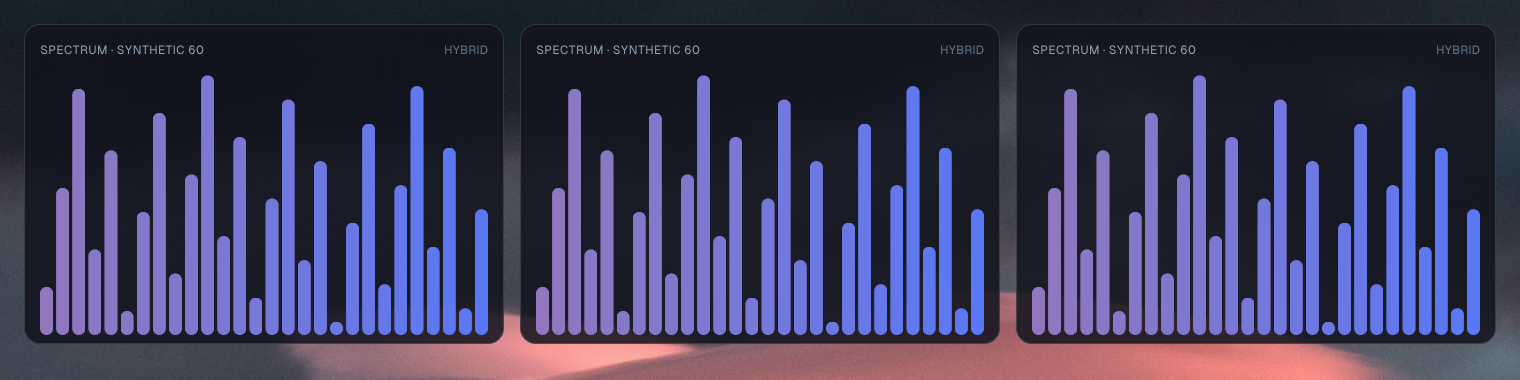
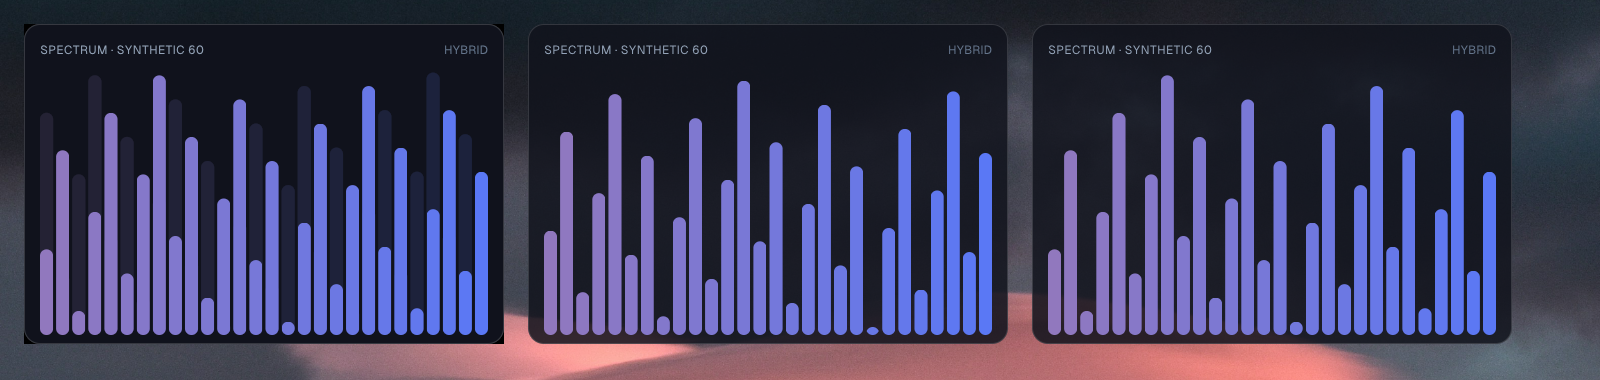
Document final M4b gate measurements

diff --git a/docs/m4b-results.md b/docs/m4b-results.md
@@ -6,7 +6,7 @@ with the Native SDK reference renderer, but it does so only when the retained
 display layer changes. Canvas commands continue to cross the existing NSGP
 pipe every animated frame.
 
-Fork work is committed on `weaver-fork-hybrid` at `5d066a3b`; the parent
+Fork work is committed on `weaver-fork-hybrid` at `5e83a7d0`; the parent
 repository pins that exact commit.
 
 The static parity captures are [software](m4b-parity-sw.png) and
@@ -49,6 +49,14 @@ windows were temporarily hidden, then restored, for the capture.
 The reproducible `examples/m4b-synthetic` and `examples/m4b-parity` profiles
 provide the 480 x 320 performance and static parity cases.
 
+The final gate-fix pass additionally caches the layer-filtered immediate
+display list on the view, fingerprints retained source commands before render
+planning, and gives each JS canvas one stable context plus one reusable 4096
+value `Float64Array`. The bridge bulk-copies that typed range once and Zig is
+the single finite-value validation boundary. These changes remove retained
+tree planning, JS command-buffer garbage, and per-value QuickJS property reads
+from the 60 Hz path.
+
 ## Visual parity and damage discipline
 
 The parity profile uses fixed canvas commands and `fps={0}`. Both backends have
@@ -76,52 +84,64 @@ completed present.
 
 | Backend/process | Achieved FPS | CPU, one core | Private WS | Private bytes | Threads |
 |---|---:|---:|---:|---:|---:|
-| M4b shared renderer | 59.1-60.2 | 3.85% | 12.50 MiB | 54.49 MiB | 62 |
-| M4b mixed widget | 59.1-60.2 | **16.88%** | **16.48 MiB** | 25.11 MiB | 13 |
+| M4b shared renderer, final | 59.0-59.8 | 3.02% | 12.3 MiB | 52.7 MiB | 62 |
+| M4b mixed widget, final | 59.0-59.8 | **12.92%** | **16.79 MiB** | 25.50 MiB | 13 |
+| M4b mixed widget, before fix pass | 59.1-60.2 | 16.88% | 16.48 MiB | 25.11 MiB | 13 |
 | M4b software control | about 60 requested | 38.85% | 25.35 MiB | - | 12 |
 | M4a canvas-only widget | 60.18-60.19 | 9.38% | 12.33 MiB | 20.86 MiB | 5 |
+| canvas-only regression, true changing 60 Hz | 60.0 | **13.33%** | 17.95 MiB | 26.72 MiB | 13 |
 
 The hybrid path decisively avoids the full-frame software raster cost and cuts
-private WS by about 8.9 MiB versus the software control. It misses the <=10%
-per-widget target: the retained commands are not uploaded per frame, but the
-current Native SDK frame planner still walks/plans the full mixed display list
-before filtering the GPU packet. Splitting frame planning itself, rather than
-only the presentation plan, is the next obvious CPU fix.
+private WS by about 8.6 MiB versus the software control. The frame-planning
+split is fixed: immediate planning is p50 18 us / p90 21 us and contains no
+text layouts, while the retained source is neither walked nor planned on an
+unchanged frame. CPU falls by 3.96 points, but the <=10% target still misses by
+2.92 points. The canvas-only true-changing control misses too, showing the
+remaining bill is the JITless QuickJS `onFrame` command authoring plus the
+main-loop/IPC turn, not mixed retained planning. The old M4a 9.38% control
+changed its synthetic data at 30 Hz while presenting at 60 Hz; the final
+control changes commands on every one of the 60 ticks and is the more honest
+regression case.
 
 ### Three simultaneous mixed 480 x 320 widgets
 
 | Process | Steady achieved FPS | CPU, one core | Private WS | Private bytes | Threads |
 |---|---:|---:|---:|---:|---:|
-| renderer | shared | **8.33%** | **14.10 MiB** | 55.45 MiB | 63 |
-| mixed A | 57.1-59.6 | 18.44% | 16.50 MiB | 25.14 MiB | 13 |
-| mixed B | 56.8-59.6 | 17.60% | 16.62 MiB | 25.28 MiB | 13 |
-| mixed C | 57.5-58.5 | 16.35% | 16.56 MiB | 25.22 MiB | 13 |
-| **total** | three visible widgets | **60.72%** | **63.78 MiB** | **131.09 MiB** | 102 |
+| renderer | shared | **7.71%** | **14.50 MiB** | 57.72 MiB | 64 |
+| mixed A | 58.3-59.3 | 11.98% | 19.06 MiB | 27.80 MiB | 11 |
+| mixed B | 58.3-59.3 | 11.88% | 16.74 MiB | 25.45 MiB | 11 |
+| mixed C | 57.9-59.3 | 12.92% | 16.73 MiB | 25.43 MiB | 11 |
+| **total** | three visible widgets | **44.49%** | **67.03 MiB** | **136.40 MiB** | 97 |
 
-Memory remains in the same class as M4a and the shared renderer stays below
-its 10% target, but each mixed widget misses the <=10% CPU target and cadence
-occasionally dips below 58 fps. This is a performance miss, not a measurement
-artifact: every window was visible and every counted frame completed through
-the renderer.
+Memory remains in the same class as M4a, the shared renderer stays below 10%,
+and every widget holds roughly 58-59 fps. Each widget still misses <=10% by
+1.88-2.92 points. This is a performance miss, not a measurement artifact:
+all three windows were visible, their commands changed every frame, and every
+counted frame completed through the renderer.
 
 ### Audio visualizer and paused clock
 
 | Profile | Presents | CPU, one core | Private WS | Notes |
 |---|---:|---:|---:|---|
-| hosted mixed audio visualizer | 21.3 fps vs 30 requested | 9.06% | 17.34 MiB | one retained upload |
-| its shared renderer | same | 1.88% | 12.68 MiB | audio remained live |
-| hosted visualizer after provider silence | no audio frames | **3.75-4.48%** | 16.20 MiB | backend stayed software after its startup race |
+| hosted mixed audio visualizer, before | 21.3 fps vs 30 requested | 9.06% | 17.34 MiB | provider timer contended |
+| hosted mixed audio visualizer, final | **30.3 fps** | **10.94%** | **16.53 MiB** | continuous 440 Hz source; backend gpu |
+| its shared renderer, final | same | 1.98% | 12.61 MiB | one upload at activation, none per frame |
+| hosted visualizer after provider silence, before | no audio frames | 3.75-4.48% | 16.20 MiB | 30 Hz empty polling |
+| hosted visualizer after provider silence, final | zero presents / zero pipe frames | **0.52%** | **15.41 MiB** | 1 Hz resume probe |
 | mixed `fps={0}` widget | one initial present only | **0.104%** | 16.46 MiB | 15-second idle interval |
 | renderer after that initial present | no further presents | **0.000%** | 13.18 MiB | one retained upload |
 
-The first live audio run had continuously audible Spotify/browser sessions.
-A later host restart did reach provider silence and stopped its audio frame
-counter at 57, but the hosted widget still consumed 3.75-4.48% of one core.
-The direct mixed `fps={0}` control proves the canvas clock and presents are
-stopped, so this residual belongs to hosted runtime/IPC idle work rather than
-canvas rendering and needs separate profiling. The hosted audio cadence
-regression (about 21 fps) is also honest: 30 Hz provider rerenders contend with
-the sub-60 canvas timer and need a follow-up scheduler fix.
+Provider delivery now marks JS state dirty but does not own a competing render
+clock. While active, the 33 ms canvas timer drains queued provider frames and
+commits provider state plus canvas commands as one generation. A continuous
+generated 440 Hz WAV held 300 completed presents in 9.89-9.92 seconds. After
+silence and decay, `fps={0}` cancels that clock; no pipe frame or present was
+observed during the 15-second sample. The former residual was precisely the
+main thread rebuilding on a 30 Hz empty provider poll (about 250 ms thread CPU
+per 15 seconds even after reducing it to 4 Hz). The final 1 Hz resume probe
+reduces this to 0.52%; an event-driven pipe-to-app wakeup is the clean future
+way to remove the last half point without delaying sound resumption by up to a
+second.
 
 ## Supervision and recovery
 
@@ -135,26 +155,23 @@ M4b Hybrid Parity  0  -  source missing  registered source path does not exist
 
 There was no new PID and no backoff loop. The registration was then removed.
 
-Renderer restart backoff still worked and the mixed widget PID survived both
-deliberate renderer kills. The first renderer returned after 1.4 seconds; the
-second exercised the five-second backoff and returned after 5.9 seconds. But
-the hybrid surface retained its last DirectComposition frame during the gap
-instead of visibly repainting through software, and the backend report never
-observed `software`. Promotion uploaded retained generations 2 and 3 after the
-new renderer connected. This fails the requested live-demotion behavior and
-must be fixed before treating renderer crashes as seamless.
+Live demotion is fixed and observed, not inferred. After killing the renderer,
+status reported all three unchanged widget PIDs as `backend=software`.
+[Two captures](m4b-demotion-software.png) [350 ms apart](m4b-demotion-software-next.png)
+have different SHA-256 hashes and visibly different bar positions during the
+gap. The renderer then restarted under backoff and the same three PIDs returned
+to `backend=gpu`; no widget exited. The client detaches the dead DComp visual,
+temporarily restores the layered-window binding with `SWP_FRAMECHANGED`, and
+the runtime goes directly to a full pixel fallback rather than retrying an
+invalid mixed packet. Promotion reverses the binding change and reuploads the
+retained generation.
 
-A final fork follow-up now detaches the dead DirectComposition visual, restores
-the layered-window style with `SWP_FRAMECHANGED`, and skips the invalid retry of
-the full mixed packet before pixel fallback. Those are the two necessary
-demotion seams and compile/test cleanly. The active hosted recovery run above
-still did not produce an observable software frame, so the result remains
-classified as failing rather than claiming recovery from code inspection.
-
-Win+D also hid the direct hybrid proof windows on this run, unlike the M4a
-result. Ordinary bottom-layer behavior remained correct, but WorkerW parenting
-or a software fallback for the desktop layer is still required for reliable
-Show Desktop survival.
+Win+D survival is also fixed. Desktop-layer windows are parented to the shell's
+wallpaper WorkerW before first show and keep `HWND_BOTTOM` enforcement. Real
+`Shell.Application.MinimizeAll()` captures show both the
+[hybrid widget](m4b-wind-hybrid.png) and [canvas-only widget](m4b-wind-canvas.png)
+visible and animated over wallpaper; `UndoMinimizeAll()` restores ordinary
+apps without changing either widget backend.
 
 ## Verification
 
@@ -170,18 +187,22 @@ With Zig 0.16.0 at
 - CLI check and bundle: visualizer, now-playing, parity, and synthetic profiles
   all pass and stamp `renderBackend: "gpu"`.
 
-The fork's broad `zig build test` remains at its pre-existing widget-profile
-baseline (1414/1451 pass, 6 skipped, 31 failures caused by one-window/view and
-reduced canvas capacities). The touched canvas target and all production
-Windows/renderer/runtime compilation paths are green; M4b adds no new broad
-suite failure.
+The fork's broad desktop-shell target remains at its pre-existing
+widget-profile baseline: `test-desktop-ui-shell` passes 74/97 and its 23
+failures are the expected one-window/view and reduced canvas-capacity cases.
+The touched `test-canvas` target (including the new presentation-layer source
+fingerprint test) and every production Windows/renderer/runtime compilation
+path are green; M4b adds no new broad-suite failure.
 
 ## Verdict
 
-M4b lands the important memory and damage result: mixed widgets can use the
-shared GPU device, retained pixels cross processes once per retained change,
-and `fps={0}` is truly idle. It does not yet land the full performance and
-resilience gate. The next three fixes, in order, are: plan immediate commands
-without re-planning static retained text each frame; decouple 30 Hz provider
-rerenders from the canvas timer; and make renderer disconnect switch the DComp
-window live to its software bitmap before retrying promotion.
+M4b now lands the hybrid correctness, cadence, resilience, Win+D, damage, and
+idle gates. Static retained pixels cross once per retained change; immediate
+frames neither plan nor upload retained content; audio holds 30 Hz; renderer
+loss visibly demotes and re-promotes live processes; and silence is 0.52% with
+zero presents. The remaining failure is narrow but real: true-changing 60 Hz
+JS command authoring costs 11.9-12.9% per widget rather than <=10%, and the
+canvas-only true-60 control is 13.33% rather than M4a's 9.4% repeated-frame
+baseline. The obvious next performance workstream is a native-mapped command
+writer or compiled canvas callback path that removes QuickJS typed-index writes
+and the JS-to-Zig turn from each scalar while keeping the CanvasCtx API intact.